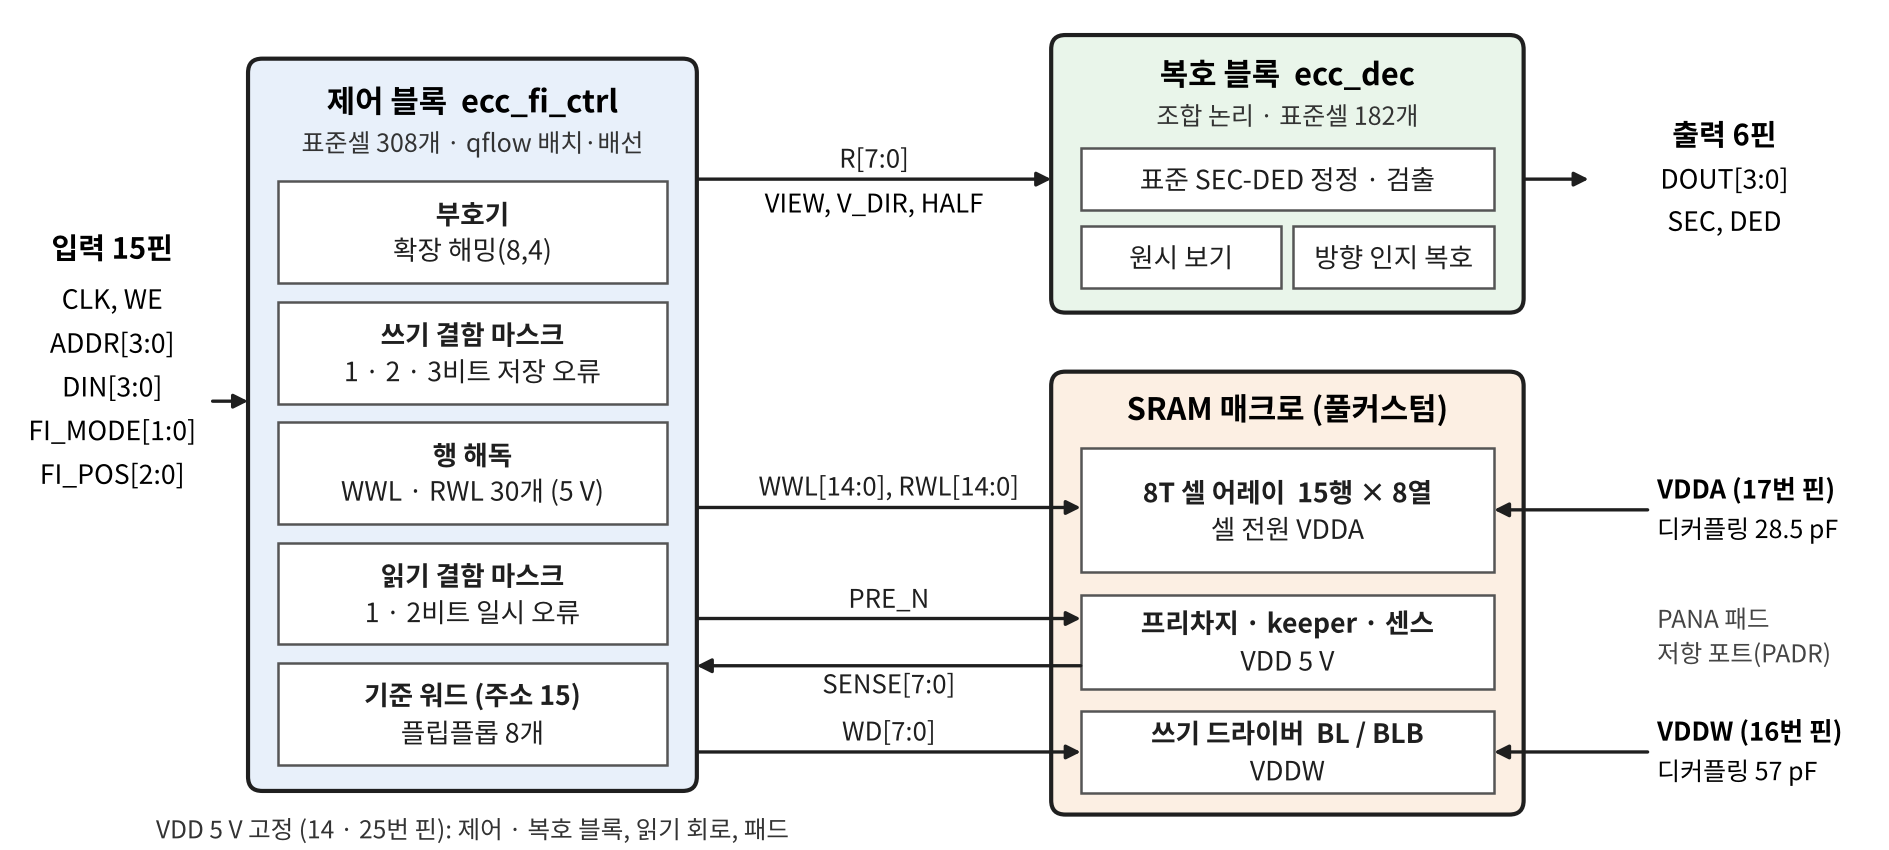
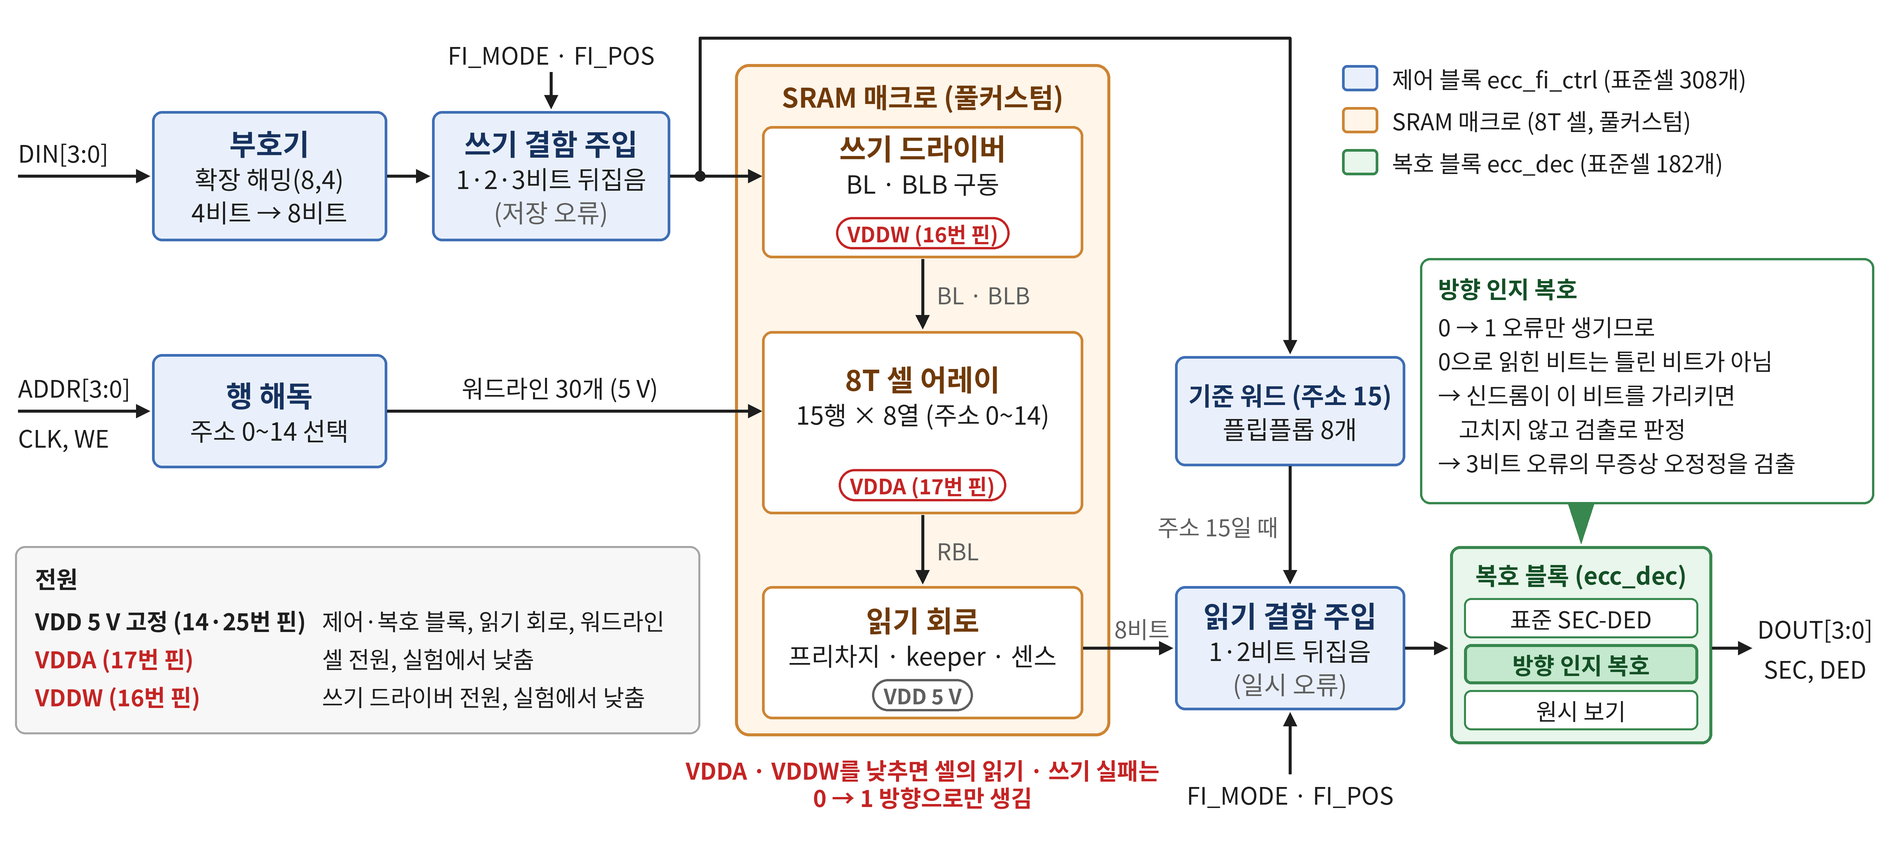
주제 이름을 바꾸고 쓰기 Vmin 예상값을 추출한 매크로 값으로 고침
- 주제 이름: 오류 방향을 이용해 무증상 오정정을 검출하는 ECC 8T SRAM (README, report, guide의 신청서 값)
- 블록도를 쓰기·읽기 경로와 전원 구분이 보이는 그림으로 바꿈
- 쓰기 Vmin: 셀 모의(비트라인 25 fF) 1.73–1.94 V → 추출한 매크로 TT 약 1.35 V, 코너 1.2–1.5 V
- verification.md 15절: 제출 전 재검토(2026-11-13)

Changed region(s): [[0.0, 0.0306, 0.9995, 1.0]]

diff --git a/docs/verification.md b/docs/verification.md
@@ -169,7 +169,7 @@ Magic 추출 계수는 이 킷에서 AMI 0.5 µm 값이라 ETRI 표와 다르다
 ## 9. 비트라인 드라이버 전원 VDDW와 디커플링
 
 - 매크로에서 비트라인 드라이버의 N-well·소스를 VDDA에서 떼어 VDDW 버스(오른쪽 x 60–72λ)로 냈다. 매크로 Magic DRC 0, KLayout DRC 0, LVS 일치, 추가 규칙 0
-- 쓰기 Vmin(VDDW, VDDA = 5 V에서 저장 1에 0 쓰기, `sweep_vdda.py`): 1.73 V(FF 125 °C) – 1.94 V(SS 0 °C), TT 27 °C 1.86 V. 셋째 물리 결함 손잡이다
+- 쓰기 Vmin(VDDW, VDDA = 5 V에서 저장 1에 0 쓰기, `sweep_vdda.py`): 1.73 V(FF 125 °C) – 1.94 V(SS 0 °C), TT 27 °C 1.86 V(비트라인 25 fF. 추출한 매크로로는 0.4–0.5 V 낮다, 15절). 셋째 물리 결함 손잡이다
 - 디커플링 `gen/decap.py`: NMOS 게이트 산화막 커패시터(손가락 12 × 12 µm, 0.45 pF), VDDW 14 × 9 = 57.0 pF(152.4 × 286.5 µm), VDDA 7 × 9 = 28.5 pF(152.4 × 143.7 µm). 둘 다 Magic DRC 0, KLayout DRC 0, LVS 일치, 추가 규칙 0
 - 매크로 후모의(VDDW = VDDA로 묶음): TT 27 °C 5 V, SS 125 °C 4.5 V, FF 0 °C 5.5 V, SF·FS 27 °C, VDDA = VDDW = 2.0 V에서 240비트씩 오류 0, VDDA·VDDW를 0.6 V·0.2 V로 2 µs 내렸다 복구할 때 120비트씩 오류 0
 
@@ -339,7 +339,7 @@ main(49958a3)을 제출 전에 다시 봤다. 목표한 설계와 같고 막는 
 | 쓰기 실패 방향(`sim/cell/write_dir.py`) | 1 쓰기(BLB를 끌어내리는 NMOS 게이트가 WD = 5 V)는 VDDW 0.3–2.0 V, 15개 코너·온도 모두 성공. 0 쓰기만 1.8–2.0 V 아래에서 실패한다. 저전압 쓰기 실패도 0 → 1 한 방향이다. 0.3 V 125 °C에서 0 쓰기가 되는 점은 드라이버가 비트라인을 붙잡지 못해 떠 있는 비트라인 값으로 정해진 결과다 → 측정은 VDDW ≥ 1 V |
 | 느린 공정의 보존 시간(`retention_time.py`, 가장 나쁜 비트라인) | SS 27 °C: DC 보존 전압 0.432 V(비트라인 쉼 0.414 V), 0.36–0.41 V에서 데이터를 잃기까지 3.08–5.13 s. FS 27 °C: 0.507 V(0.49 V), 0.44–0.49 V에서 0.51–0.96 s. TT는 0.6–1.7 s(2절). 보존 전압에 가까울수록 더 길다 |
 
-26년 1차 MPW 측정값(NMOS·PMOS 모두 느린 쪽)으로 보면 실제 칩의 보존 전압은 0.41–0.51 V, 읽기 Vmin은 최대 약 1.5 V(SS 27 °C), 쓰기 Vmin은 1.8–1.95 V로 예상한다. 모두 측정 계획의 스윕 범위 안이다.
+26년 1차 MPW 측정값(NMOS·PMOS 모두 느린 쪽)으로 보면 실제 칩의 보존 전압은 0.41–0.51 V, 읽기 Vmin은 최대 약 1.5 V(SS 27 °C), 쓰기 Vmin은 1.8–1.95 V로 예상한다(셀 모의 기준. 15절에서 추출한 매크로로 다시 보면 1.3–1.5 V). 모두 측정 계획의 스윕 범위 안이다.
 
 측정 계획에서 바꾼 것:
 
@@ -366,10 +366,49 @@ main(49958a3)을 제출 전에 다시 봤다. 목표한 설계와 같고 막는 
 
 **판단**: 제출본은 도형까지 이전 최종과 같은 칩이고, 최신 도구와 킷으로 모든 검사를 다시 통과했다. 바뀐 것은 GDS 머리의 날짜와 블록 안 포트 이름 글자뿐이다.
 
+## 15. 제출 전 재검토 (2026-11-13)
+
+업로드할 `ecc_sram_Top.zip`(1,016,765 B, sha256 `cba3cc29…c27334`)과 그 안의 GDS(sha256 `14540645…72a1eb`)를 그대로 다시 봤다. `chip/final`의 zip과 바이트까지 같고, GDS는 바꿀 것이 없다. 쓰기 Vmin 예상값만 고쳤다. 주제 이름을 「오류 방향을 이용해 무증상 오정정을 검출하는 ECC 8T SRAM」으로 바꿨지만 GDS와는 관계없다(Top Cell `ecc_sram_Top`, DB 파일 `ecc_sram_Top.zip` 그대로).
+
+빌드(Codespaces)와 다른 판의 도구(Ubuntu 24.04 배포판 KLayout 0.28.16, Magic 8.3.105, Netgen 1.5.133, Yosys 0.33, Icarus Verilog 12, ngspice-42)로 돌렸다.
+
+| 확인 | 결과 |
+|---|---|
+| 공식 DRC(킷 덱, 규칙 115개), Calibre 전용 73규칙, 규칙 7–12, 안테나 | 0, 0, 64(모두 패드 링만 돌렸을 때와 같은 자리, GPIO 셀 안), 0 |
+| 제출 GDS 검사, 코어 LVS(업로드 GDS에서 잘라 낸 코어) | 통과(실패 0 · 경고 0), 일치(3,982 소자 · 1,909 넷) |
+| 소스에서 다시 만들기(`check_all.sh`) | 모두 통과, 다시 만든 GDS와 업로드 GDS가 19개 층 모두 XOR 0 |
+| 핀 배치·연결(업로드 GDS를 평탄화하고 metal1–3·via로 연결 추출) | 신호 패드 21개가 모두 `pins.csv`의 블록 핀 하나에만 닿고, 패드 위치로 다시 매긴 패키지 핀 번호(공지 #768)가 사양 핀 표와 28개 모두 같다. 전원 VDD, VSS, VDDA(E3 PADR), VDDW(E2 PADR)가 따로이고 PANA의 무저항 포트는 어디에도 닿지 않는다. 제어↔복호 11넷, 제어↔매크로 47넷 모두 1:1 |
+| 고정 넷리스트(`ctrl/macro/*.v`)와 LVS 기준 넷리스트 | 인스턴스마다 셀 종류·핀 연결까지 같다(ecc_dec 201, ecc_fi_ctrl 406) |
+| 표준셀 15종 | 트랜지스터 넷리스트를 TT·SS·FF로 돌려 Verilog 모델과 비교, 조합 셀 14종 진리표 같음, DFFPOSX1은 상승 에지에서만 잡음 |
+| 논리 동작(사양만 보고 짠 모델과 비교) | 447,072주기, 읽기 419,604번 불일치 0. 어레이 행에 저장값 256가지를 직접 넣은 물리 결함과 방향 보기 DIN 반전 포함. 모델을 일부러 틀리게 하면 잡힌다 |
+| 무증상 오정정 검출(16개 부호어의 한 방향 오류 전부) | 1비트 64 고침, 2비트 28 고침·84 검출, 3비트 112 모두 검출(표준 복호는 112 모두 틀린 값 + SEC), 4비트 56 검출·28 오정정(오류 자체가 부호어) |
+| 워드라인 글리치(제어 블록 고정 넷리스트, 0/1/X 모의) | CLK = 0이면 다른 입력과 기준 워드가 X여도 WWL·RWL 30개와 PRE_N이 0. CLK = 0 동안 입력이 어떻게 바뀌어도 워드라인이 튀지 않는다 |
+| VDDW 경로(PADR 약 860 Ω, 디커플링 57 pF, 8열이 한꺼번에 1 위에 0 쓰기) | 쓰기 Vmin이 이상 전원보다 +0.02 V. PADR은 측정에 영향이 없다 |
+
+### 저전압 실패 방향과 Vmin (그린 매크로 추출, C × 1.5)
+
+`sim/post/array_post.py`가 쓰는 매크로 추출 넷리스트로, 15행을 5 V에서 쓰고 7행만 낮춘 전원에서 쓰거나 읽었다. WWL·RWL은 1 kΩ을 거쳐 몰고, 쓰기 WWL 500 ns, 읽기 평가 1 µs.
+
+| 실험 | 결과 |
+|---|---|
+| 쓰기 00을 FF 위에(VDDA 5 V, VDDW 낮춤) | 성공·실패 경계: TT 27 °C 1.3–1.4 V, SS 0 °C 1.4–1.5 V, SS 27 °C 1.3–1.4 V, SF 27 °C 1.4–1.5 V, FS 27 °C 1.3–1.4 V, FF 125 °C 1.2–1.3 V |
+| 쓰기 FF를 00 위에 | VDDW 1.0–1.3 V에서 위 코너 모두 성공. 쓰기 실패는 0 → 1만 |
+| 읽기(VDDA = VDDW 낮춤, 저장값 01010101) | TT 27 °C 1.45 V 통과, 1.40 V에서 저장된 0만 1로 읽힘. SS 27 °C 1.50 V 통과, 1.40 V 실패. 저장된 1은 모두 1. 읽기 Vmin은 2절(TT 1.42 V, SS 1.50 V)과 같다 |
+
+쓰기 Vmin이 9절의 셀 모의(1.73–1.94 V, TT 1.86 V)보다 0.4–0.5 V 낮다. 셀 모의(`sim/cell/cell8t.py`의 write_deck)는 비트라인을 25 fF로 뒀고, 추출한 매크로의 BL·BLB·RBL은 열마다 약 130 fF(C × 1.5)다. WWL이 열리는 순간 0으로 몰려 있던 BL이 셀 Q의 전하를 나눠 받아 쓰기를 돕는다. 같은 셀 모의를 비트라인 25 fF로 하면 TT 1.86 V가 그대로 나오고, 150 fF면 1.44 V(코너 1.35–1.50 V), 90 fF면 1.62 V다.
+
+고친 것: 쓰기 Vmin 예상값을 추출한 매크로 값(TT 약 1.35 V, 코너 1.2–1.5 V)으로 바꿨다([spec.md](spec.md) 측정 계획 3, [guide.md](guide.md) 4.8, [report.md](report.md), README). 26년 1차 측정값으로 본 실제 칩의 쓰기 Vmin 예상도 1.8–1.95 V(13절)에서 1.3–1.5 V로 바뀐다. 측정 하한 VDDW 1 V는 그대로라 실패 구간이 스윕 안에 들어온다.
+
+측정 펌웨어: CLK 에지와 다른 입력을 한 번의 포트 쓰기로 함께 바꾸지 않는다. CLK를 내리고 100 ns 넘게 지난 뒤 ADDR·WE·DIN·FI_*를 바꾸고, 다시 100 ns 넘게 지나 CLK를 올린다. 출력은 CLK = 1 구간 끝(올린 뒤 200 ns 넘게 지나서)에 읽는다. 위 0/1/X 모의로 CLK = 0이 칩에 닿은 뒤의 입력 변화는 안전하고, 위험한 것은 CLK와 동시에 바뀌는 순간뿐이다.
+
+참고: 배포판 Ubuntu의 netgen은 실행 파일 이름이 `netgen-lvs`라 `core_lvs.py`가 `netgen`을 찾지 못한다. README대로 링크하면 통과한다.
+
+**판단**: 업로드할 zip은 그대로 내도 된다. 저전압 읽기·쓰기 실패가 0 → 1 한 방향이라는 방향 인지 복호의 전제는 그린 매크로에서도 성립하고, 바뀐 것은 쓰기 Vmin 예상값뿐이다.
+
 ## 다음
 
 설계와 검증은 끝났다. 전체 정리는 [report.md](report.md)에 있다.
 
 1. 제출: 2026년 4차(신청서·DB 마감 12/7). 제출본은 main의 `chip/final`이다
 2. 제출 서류: 신청서(값은 [guide.md](guide.md) 1.1, DRC·LVS 화면은 `chip/final`의 PNG)의 학생·지도교수 정보와 서명, 모아팹에 `chip/final/ecc_sram_Top.zip` 올리기
-3. 측정 보드·절차 정리(13절에서 보완한 측정 계획: 보존 30 s 이상과 유지 중 DIN, VDDW ≥ 1 V, 워드마다 다른 데이터와 1 mV 단계, 방향 보기 읽기는 DIN = 0)
+3. 측정 보드·절차 정리(13절에서 보완한 측정 계획: 보존 30 s 이상과 유지 중 DIN, VDDW ≥ 1 V, 워드마다 다른 데이터와 1 mV 단계, 방향 보기 읽기는 DIN = 0. 15절의 입력 순서)

diff --git a/docs/report.md b/docs/report.md
@@ -1,6 +1,6 @@
-# 결함 주입 ECC 8T SRAM 칩 최종 보고서
+# 오류 방향을 이용해 무증상 오정정을 검출하는 ECC 8T SRAM 칩 최종 보고서
 
-2026-11-11
+2026-11-13
 
 ## 요약
 
@@ -43,7 +43,7 @@
 
 칩은 ETRI GPIO 원본 셀로 만든 28핀 패드 링과 그 안의 1016 × 1016 µm 코어로 이뤄진다. 코어에는 블록 다섯 개가 있고, 트랜지스터 게이트는 패드 셀을 포함해 5,390개다.
 
-![칩 블록도](img/block.png)
+![칩 블록도와 쓰기·읽기 경로](img/block.png)
 
 제어 블록은 읽은 워드 R까지 만들고, 위 채널의 metal3 11넷을 거쳐 복호 블록이 판정해 출력 패드를 구동한다.
 
@@ -125,8 +125,9 @@
 
 | 대상 | 검사 | 결과 |
 |---|---|---|
-| 8T 셀 | 코너·온도·전압 45조건 쓰기·읽기, 보존 전압, 읽기·쓰기 Vmin | 모두 통과. 보존 전압 TT 0.37 V, 읽기 Vmin(VDDA) TT 1.42 V, 쓰기 Vmin(VDDW) 1.73–1.94 V |
+| 8T 셀 | 코너·온도·전압 45조건 쓰기·읽기, 보존 전압, 읽기·쓰기 Vmin | 모두 통과. 보존 전압 TT 0.37 V, 읽기 Vmin(VDDA) TT 1.42 V, 쓰기 Vmin(VDDW) 1.73–1.94 V(비트라인 25 fF로 둔 셀 모의) |
 | SRAM 매크로 | 레이아웃 추출(기생 C × 1.5), 5 코너와 VDDA·VDDW 2.0 V에서 쓰기·읽기 | 240비트씩 오류 0 |
+| SRAM 매크로 저전압 | 같은 추출 넷리스트로 7행만 낮춘 전원에서 쓰기(6개 코너·온도)·읽기(TT, SS) | 읽기·쓰기 실패 모두 0 → 1. 읽기 Vmin TT 1.40–1.45 V(셀 모의와 같음), 쓰기 Vmin TT 약 1.35 V, 코너 1.2–1.5 V |
 | 제어·복호 블록 논리 | 칩 코어 논리 시험(RTL, 게이트, 배치 후, 고정 넷리스트) | 235,865회 비교 통과(방향 보기 30,206회, 프리차지 구간 14,094회) |
 | 복호 블록 | 입력 11비트 2,048가지 전수 | 통과 |
 | 두 블록 RTL | 일부러 틀리게 만든 RTL 14개 | 모두 걸림 |
@@ -173,7 +174,7 @@
 
 | 항목 | 값 |
 |---|---|
-| 설계명 | 저전압 SRAM 오류 실측을 위한 결함 주입·방향 인지 ECC 8T SRAM |
+| 설계명 | 오류 방향을 이용해 무증상 오정정을 검출하는 ECC 8T SRAM |
 | 설계 DB 파일명(Top Cell 명) | `ecc_sram_Top.zip`(Top Cell `ecc_sram_Top`) |
 | 설계 사용 Tool | Magic, KLayout, Netgen, ngspice, Yosys, qflow(GrayWolf, Qrouter), Icarus Verilog(오픈소스) |
 | 표준칩 배치(MPW_PAD_28pin) | 사용 |
@@ -207,9 +208,9 @@
 1. **정상 동작**: VDD = VDDA = VDDW = 5 V. 16워드에 서로 다른 값을 쓰고 읽기, 체커보드와 반전.
 2. **논리 결함 주입**: 쓰기 모드 01·10·11, 읽기 모드 01·10. 1비트는 정정되고 SEC, 2비트는 DED, 3비트는 오정정(SEC)으로 나와야 한다.
 3. **물리 결함**: 원시 보기로 실패 비트 지도를 만들고 정정 출력·SEC/DED와 비교한다.
-   - 보존: 5 V에서 모든 워드에 같은 데이터를 쓰고 VDDA·VDDW를 V_hold로 30 s 이상 둔 뒤 5 V에서 읽기. 유지 중에는 CLK = 0, WE = 0, DIN = 쓴 데이터로 둔다(비트라인이 DIN의 부호를 따라가므로, 다르면 보존 전압이 14–18 mV 높게 나온다). 0.60 V부터 10 mV씩, 값과 반전 두 패턴(모의 보존 전압 TT 0.37 V, SS 0.41 V). 느린 공정에서는 데이터를 잃기까지 수 초가 걸리므로(모의 SS 3.1–5.1 s) 먼저 두 V_hold에서 10 s와 60 s 결과를 비교한다.
+   - 보존: 5 V에서 모든 워드에 같은 데이터를 쓰고 VDDA·VDDW를 V_hold로 30 s 이상 둔 뒤 5 V에서 읽기. 유지 중에는 CLK = 0, WE = 0, FI_MODE = 00, DIN = 쓴 데이터로 둔다(비트라인이 DIN의 부호를 따라가므로, 다르면 보존 전압이 14–18 mV 높게 나온다). 0.60 V부터 10 mV씩, 값과 반전 두 패턴(모의 보존 전압 TT 0.37 V, SS 0.41 V). 느린 공정에서는 데이터를 잃기까지 수 초가 걸리므로(모의 SS 3.1–5.1 s) 먼저 두 V_hold에서 10 s와 60 s 결과를 비교한다.
    - 읽기 Vmin: VDDA(= VDDW)를 낮춘 채 읽기. 0으로 저장된 비트가 1로 읽힌다(모의 TT 1.42 V, SS 1.50 V).
-   - 쓰기 Vmin: VDDA = 5 V, VDDW를 낮춰 쓰고 5 V에서 읽기(모의 1.73–1.94 V). 1 쓰기는 VDDW 0.3–2.0 V에서 모두 성공해 이 실패도 0 → 1 한 방향이다. VDDW는 1 V 아래로 내리지 않는다.
+   - 쓰기 Vmin: VDDA = 5 V, VDDW를 낮춰 쓰고 5 V에서 읽기(추출한 매크로 모의 TT 약 1.35 V, 코너 1.2–1.5 V). 1 쓰기는 VDDW 0.3–2.0 V에서 모두 성공해 이 실패도 0 → 1 한 방향이다. VDDW는 1 V 아래로 내리지 않는다.
 4. **방향 복호**(읽기·쓰기 Vmin과 함께): 실패 비트가 모두 0 → 1인지 먼저 확인한다. 같은 워드를 정상 읽기, 방향 보기(FI_POS 011, DIN = 0), 원시 보기 두 번으로 잇달아 읽어 맞음·검출·무증상 오류로 나눈다. 워드마다 다른 데이터(0–F)와 그 반전을 쓰고, VDDA를 1 mV씩 내렸다가 다시 올리며 측정 온도를 기록한다. keeper·센스가 열마다 하나라 실패가 열 단위로 몰리므로 열별로도 정리한다.
 5. **어레이가 동작하지 않을 때**: 주소 15(표준셀 기준 워드)로 2와 4의 논리 시험을 시연한다.
 
@@ -219,7 +220,7 @@
 
 설계는 끝났고 남은 일은 서류다. 마감은 신청서와 설계 DB 모두 2026년 12월 7일이다.
 
-- [ ] 신청서 마무리: 학생 정보, 연계 교육 프로그램, 지도교수 정보
+- [ ] 신청서 마무리: 생년월일·연락처, 지도교수 정보, 날짜
 - [ ] 대표 학생·지도교수 서명
 - [ ] 모아팹에 신청서와 `ecc_sram_Top.zip` 업로드, 접수 확인 메일 확인
 - [ ] 선정 확인(마이칩 공지) 2026년 12월 21일

diff --git a/docs/guide.md b/docs/guide.md
@@ -32,7 +32,7 @@ ecc_sram_Top
 
 | 항목 | 값 |
 |---|---|
-| 설계명 | 저전압 SRAM 오류 실측을 위한 결함 주입·방향 인지 ECC 8T SRAM |
+| 설계명 | 오류 방향을 이용해 무증상 오정정을 검출하는 ECC 8T SRAM |
 | 설계 DB 파일명 (Top Cell 명) | `ecc_sram_Top.zip` (Top Cell `ecc_sram_Top`) |
 | 설계 사용 Tool | Magic 8.3, KLayout 0.30, Netgen 1.5, ngspice 42, Yosys 0.33, qflow(GrayWolf, Qrouter), Icarus Verilog 12 (오픈소스) |
 | 표준칩 배치 (MPW_PAD_28pin) | 사용 (본딩 패드 28개가 `MPW_PAD_28pin.gds`와 XOR 0) |
@@ -183,9 +183,9 @@ SRAM은 전원 전압이 낮거나 셀이 약하면 저장한 값을 잃거나, 
 
 | 실험 | 조건 | 실패 모양 | 모의 기준값 |
 |---|---|---|---|
-| 보존 | 5 V에서 쓰고 VDDA = VDDW를 V_hold로 30 s 이상(유지 중 DIN = 쓴 데이터), 5 V로 올려 읽기 | 저장값을 잃음(셀마다 기우는 쪽, 양방향) | 보존 전압 TT 0.37 V |
+| 보존 | 5 V에서 쓰고 VDDA = VDDW를 V_hold로 30 s 이상(유지 중 FI_MODE = 00, DIN = 쓴 데이터), 5 V로 올려 읽기 | 저장값을 잃음(셀마다 기우는 쪽, 양방향) | 보존 전압 TT 0.37 V |
 | 읽기 Vmin | VDDA를 낮춘 채 읽기(VDDW = VDDA) | 0이 1로 읽힘(0 → 1만) | TT 1.42 V |
-| 쓰기 Vmin | VDDA = 5 V, VDDW를 낮추며 쓰고 5 V에서 읽기(VDDW ≥ 1 V) | 1 위에 0을 못 씀(0 → 1만) | 1.73–1.94 V(TT 27 °C 1.86 V) |
+| 쓰기 Vmin | VDDA = 5 V, VDDW를 낮추며 쓰고 5 V에서 읽기(VDDW ≥ 1 V) | 1 위에 0을 못 씀(0 → 1만) | TT 약 1.35 V, 코너 1.2–1.5 V(추출한 매크로) |
 
 보존 실험은 두 패턴(값과 반전)을 모두 본다. 읽기·쓰기 Vmin 실험에서는 같은 워드를 정상 읽기, 방향 보기(FI_POS 011), 원시 보기 두 반쪽으로 잇달아 읽어 맞음·검출·무증상 오류로 나눈다(워드마다 다른 데이터, VDDA 1 mV 단계). 자세한 절차는 [spec.md](spec.md)의 측정 계획.
 
